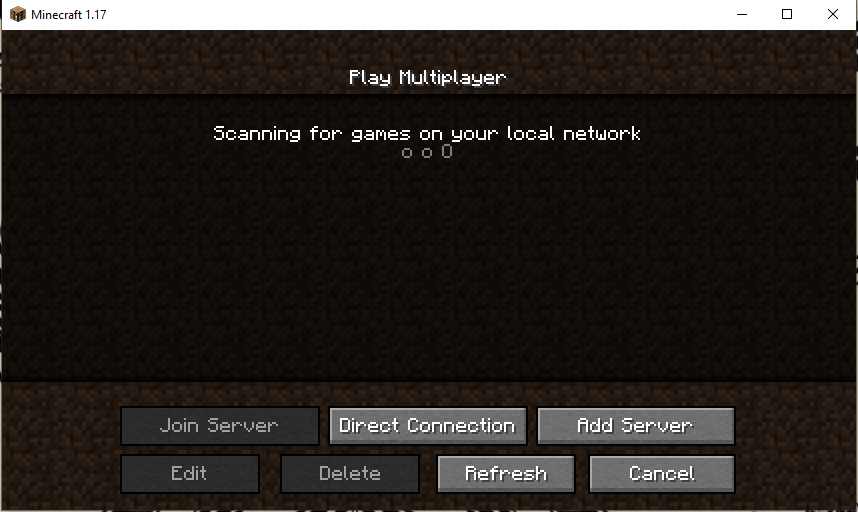
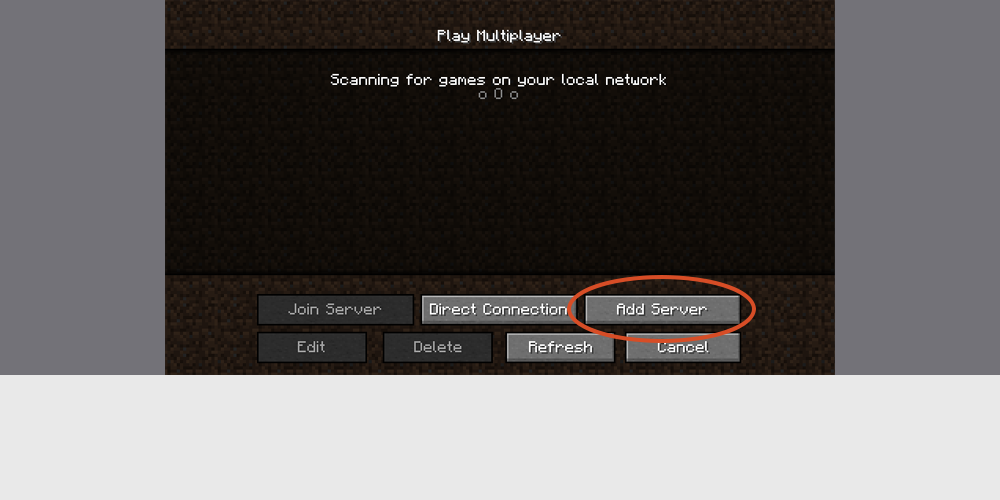
server join en server commands tutorials gemaakt

diff --git a/myapp/templates/tutorials/server_commands.html b/myapp/templates/tutorials/server_commands.html
@@ -1,5 +1,112 @@
 {% extends 'index.html' %}
 
 {% block main_content %}
+<div id="carouselExampleIndicators" class="carousel carousel-dark slide" data-bs-ride="false">
+    <div class="carousel-indicators">
+      <button type="button" data-bs-target="#carouselExampleIndicators" data-bs-slide-to="0" class="active" aria-current="true" aria-label="Slide 1"></button>
+      <button type="button" data-bs-target="#carouselExampleIndicators" data-bs-slide-to="1" aria-label="Slide 2"></button>
+      <button type="button" data-bs-target="#carouselExampleIndicators" data-bs-slide-to="2" aria-label="Slide 3"></button>
+      <button type="button" data-bs-target="#carouselExampleIndicators" data-bs-slide-to="3" aria-label="Slide 4"></button>
+      <button type="button" data-bs-target="#carouselExampleIndicators" data-bs-slide-to="4" aria-label="Slide 5"></button>
+      <button type="button" data-bs-target="#carouselExampleIndicators" data-bs-slide-to="5" aria-label="Slide 6"></button>
+      <button type="button" data-bs-target="#carouselExampleIndicators" data-bs-slide-to="6" aria-label="Slide 7"></button>
+      <button type="button" data-bs-target="#carouselExampleIndicators" data-bs-slide-to="7" aria-label="Slide 8"></button>
+      <button type="button" data-bs-target="#carouselExampleIndicators" data-bs-slide-to="8" aria-label="Slide 9"></button>
+      <button type="button" data-bs-target="#carouselExampleIndicators" data-bs-slide-to="9" aria-label="Slide 10"></button>
+
+    </div>
+    <div class="carousel-inner">
+      <div class="carousel-item active">
+        <img src="../../static/images/handleidingen/server_commands/1_server_motd.png" class="d-block w-100" alt="...">
+        <div class="carousel-caption d-none d-md-block">
+          <h5>Server eerste bericht</h5>
+          <p>Als je de server joint wordt je begroet met een berichtje. Als je op de blauwe link klikt kan je onze website ook bezoeken!</p>
+      </div>
+      </div>
+      <div class="carousel-item">
+        <img src="../../static/images/handleidingen/server_commands/2_command_spawn.png" class="d-block w-100" alt="...">
+        <div class="carousel-caption d-none d-md-block">
+            <h5>Spawn command</h5>
+            <p>Typ /spawn . Na 3 seconden wordt je naar de spawn geteleporteerd. In die 3 seconden wachten mag je wel niet rondlopen of de teleportatie wordt geannuleerd.</p>
+        </div>
+      </div>
+      <div class="carousel-item">
+        <img src="../../static/images/handleidingen/server_commands/3_command_help.png" class="d-block w-100" alt="...">
+        <div class="carousel-caption d-none d-md-block">
+            <h5>Help command</h5>
+            <p>Typ /help . Je krijgt een lijst met standaard commando's. Typ /help 2 , /help 3 ,... om meer commando's te zien. 
+                Je kan ook soms informatie zien over een command als je er 'help' voor zet. Voorbeeld /help mail . Laat je zien hoe je 
+                het /mail command moet gebruiken.
+            </p>
+        </div>
+      </div>
+
+      <div class="carousel-item">
+        <img src="../../static/images/handleidingen/server_commands/4_command_kits.png" class="d-block w-100" alt="...">
+        <div class="carousel-caption d-none d-md-block">
+          <h5>Kits command</h5>
+          <p>Doe /kits . Om al je kits te zien. Doe bijvoorbeeld '/kit beginner' om de beginner kit te krijgen. Merk wel op dat je nu kit 
+            zonder de 's' schrijft.
+          </p>
+      </div>
+      </div>
+
+      <div class="carousel-item">
+        <img src="../../static/images/handleidingen/server_commands/5_command_warps.png" class="d-block w-100" alt="...">
+        <div class="carousel-caption d-none d-md-block">
+          <h5>Warps command</h5>
+          <p>Doe '/warps' om een lijst met warps te zien. Net zoals bij kits schrijf je '/warp spawn' zonder 's'.</p>
+      </div>
+      </div>
+
+      <div class="carousel-item">
+        <img src="../../static/images/handleidingen/server_commands/6_command_is_help.png" class="d-block w-100" alt="...">
+        <div class="carousel-caption d-none d-md-block">
+          <h5>Island commando's</h5>
+          <p>Doe '/is help' om al de commando's te zien die bij skyblock horen. Ook hier kan je '/is help 2', '/is help 3', ... doen.</p>
+      </div>
+      </div>
+      <div class="carousel-item">
+        <img src="../../static/images/handleidingen/server_commands/7_command_is.png" class="d-block w-100" alt="...">
+        <div class="carousel-caption d-none d-md-block">
+          <h5>'/is' command</h5>
+          <p>Doe '/is' om het skyblock menu te zien. Hier kan je allerlei handige opties aanpassen. Zweef over de items om meer informatie te krijgen.</p>
+      </div>
+      </div>
+      <div class="carousel-item">
+        <img src="../../static/images/handleidingen/server_commands/8_command_is_upgrade.png" class="d-block w-100" alt="...">
+        <div class="carousel-caption d-none d-md-block">
+          <h5>Island upgrades</h5>
+          <p>Doe '/is upgrades' om je eiland te upgraden. Je zal wel een bepaalde hoeveelheid geld en crystals moeten sparen.</p>
+      </div>
+      </div>
+
+      <div class="carousel-item">
+        <img src="../../static/images/handleidingen/server_commands/9_command_is_shop.png" class="d-block w-100" alt="...">
+        <div class="carousel-caption d-none d-md-block">
+          <h5>De shop</h5>
+          <p>Doe '/is shop' om allerlei items te kopen.</p>
+      </div>
+      </div>
+
+      <div class="carousel-item">
+        <img src="../../static/images/handleidingen/server_commands/10_command_is_go.png" class="d-block w-100" alt="...">
+        <div class="carousel-caption d-none d-md-block">
+          <h5>Je eigen eiland</h5>
+          <p>Doe '/is go' of '/is home' om naar je eigen eiland te teleporteren.</p>
+      </div>
+      </div>
+
+
+    </div>
+    <button class="carousel-control-prev" type="button" data-bs-target="#carouselExampleIndicators" data-bs-slide="prev">
+      <span class="carousel-control-prev-icon" aria-hidden="true"></span>
+      <span class="visually-hidden">Previous</span>
+    </button>
+    <button class="carousel-control-next" type="button" data-bs-target="#carouselExampleIndicators" data-bs-slide="next">
+      <span class="carousel-control-next-icon" aria-hidden="true"></span>
+      <span class="visually-hidden">Next</span>
+    </button>
+  </div>
 {% endblock %}
 

diff --git a/myapp/templates/tutorials/join_server.html b/myapp/templates/tutorials/join_server.html
@@ -10,48 +10,57 @@
       <button type="button" data-bs-target="#carouselExampleIndicators" data-bs-slide-to="4" aria-label="Slide 5"></button>
       <button type="button" data-bs-target="#carouselExampleIndicators" data-bs-slide-to="5" aria-label="Slide 6"></button>
       <button type="button" data-bs-target="#carouselExampleIndicators" data-bs-slide-to="6" aria-label="Slide 7"></button>
-      <button type="button" data-bs-target="#carouselExampleIndicators" data-bs-slide-to="7" aria-label="Slide 8"></button>
-      <button type="button" data-bs-target="#carouselExampleIndicators" data-bs-slide-to="8" aria-label="Slide 9"></button>
-      <button type="button" data-bs-target="#carouselExampleIndicators" data-bs-slide-to="9" aria-label="Slide 10"></button>
+
     </div>
     <div class="carousel-inner">
       <div class="carousel-item active">
         <img src="../../static/images/handleidingen/server_joinen/1_minecraft_launcher.png" class="d-block w-100" alt="...">
+        <div class="carousel-caption d-none d-md-block">
+          <h5>Versie kiezen</h5>
+          <p>Kies de juiste versie en klik op spelen.</p>
+      </div>
       </div>
       <div class="carousel-item">
-        <img src="../../static/images/placeholder_1000x500.png" class="d-block w-100" alt="...">
+        <img src="../../static/images/handleidingen/server_joinen/2_minecraft_menu.png" class="d-block w-100" alt="...">
         <div class="carousel-caption d-none d-md-block">
-            <h5>Installations menu</h5>
-            <p>Klik op "nieuwe installatie".</p>
+            <h5>Minecraft menu</h5>
+            <p>Kies 'Multiplayer of Samen spelen'.</p>
         </div>
       </div>
       <div class="carousel-item">
-        <img src="../../static/images/placeholder_1000x500.png" class="d-block w-100" alt="...">
+        <img src="../../static/images/handleidingen/server_joinen/3_multiplayer_menu.png" class="d-block w-100" alt="...">
         <div class="carousel-caption d-none d-md-block">
-            <h5>Nieuwe installatie</h5>
-            <p>Vul een naam in bij "NAAM" en klik op "VERSIE".</p>
+            <h5>Server toevoegen</h5>
+            <p>Klik op 'Add server of Server toevoegen'.</p>
         </div>
       </div>
       <div class="carousel-item">
-        <img src="../../static/images/placeholder_1000x500.png" class="d-block w-100" alt="...">
+        <img src="../../static/images/handleidingen/server_joinen/4_server_details.png" class="d-block w-100" alt="...">
+        <div class="carousel-caption d-none d-md-block">
+          <h5>Server informatie</h5>
+          <p>Hier kan je je server een naam geven en het ip adres invullen. Ga naar de volgende afbeelding voor meer informatie.</p>
+      </div>
       </div>
       <div class="carousel-item">
-        <img src="../../static/images/placeholder_1000x500.png" class="d-block w-100" alt="...">
+        <img src="../../static/images/handleidingen/server_joinen/5_server_details_filled.png" class="d-block w-100" alt="...">
+        <div class="carousel-caption d-none d-md-block">
+          <h5>Server informatie invullen</h5>
+          <p>Vul als servernaam een bijhorende naam in. Vul bij 'Server Adress' het ip van je server in.</p>
+      </div>
       </div>
       <div class="carousel-item">
-        <img src="../../static/images/placeholder_1000x500.png" class="d-block w-100" alt="...">
+        <img src="../../static/images/handleidingen/server_joinen/6_online_servers.png" class="d-block w-100" alt="...">
+        <div class="carousel-caption d-none d-md-block">
+          <h5>Server lijst</h5>
+          <p>Je ziet nu een lijst met je servers. Dubbel klik op de server die je wilt spelen.</p>
+      </div>
       </div>
       <div class="carousel-item">
-        <img src="../../static/images/placeholder_1000x500.png" class="d-block w-100" alt="...">
+        <img src="../../static/images/handleidingen/server_joinen/7_connecting_to_server.png" class="d-block w-100" alt="...">
+        <div class="carousel-caption d-none d-md-block">
+          <h5>Server joinen</h5>
+          <p>Je wordt nu verbonden met de server.</p>
       </div>
-      <div class="carousel-item">
-        <img src="../../static/images/placeholder_1000x500.png" class="d-block w-100" alt="...">
-      </div>
-      <div class="carousel-item">
-        <img src="../../static/images/placeholder_1000x500.png" class="d-block w-100" alt="...">
-      </div>
-      <div class="carousel-item">
-        <img src="../../static/images/placeholder_1000x500.png" class="d-block w-100" alt="...">
       </div>
 
     </div>

diff --git a/myapp/templates/general/tutorials.html b/myapp/templates/general/tutorials.html
@@ -17,7 +17,7 @@
     </div>
     <div class="col-lg-4">
       <div class="card">
-        <img src="../../static/images/placeholder_790x660.png" class="card-img-top" alt="join_server">
+        <img src="../../static/images/tutorial_server_join_card.png" class="card-img-top" alt="join_server">
         <div class="card-body">
           <h5 class="card-title">Server joinen</h5>
           <p class="card-text">Hoe join je een minecraft server en waar vul je het ip in?</p>
@@ -27,11 +27,11 @@
     </div>
     <div class="col-lg-4">
       <div class="card">
-        <img src="../../static/images/placeholder_790x660.png" class="card-img-top" alt="server_commands">
+        <img src="../../static/images/tutorial_server_command_card.png" class="card-img-top" alt="server_commands">
         <div class="card-body">
           <h5 class="card-title">Server commands</h5>
-          <p class="card-text">Hier vindt je de meest handige commands terug.</p>
-          <a href="{{url_for('bp_tutorials.do_tutorials_server_commands')}}" class="btn btn-primary disabled stretched-link">IN PROGRESS</a>
+          <p class="card-text">Hier vindt je een paar handige commands terug. Zoals /spawn , /is , ...</p>
+          <a href="{{url_for('bp_tutorials.do_tutorials_server_commands')}}" class="stretched-link"></a>
         </div>
       </div>
     </div>
